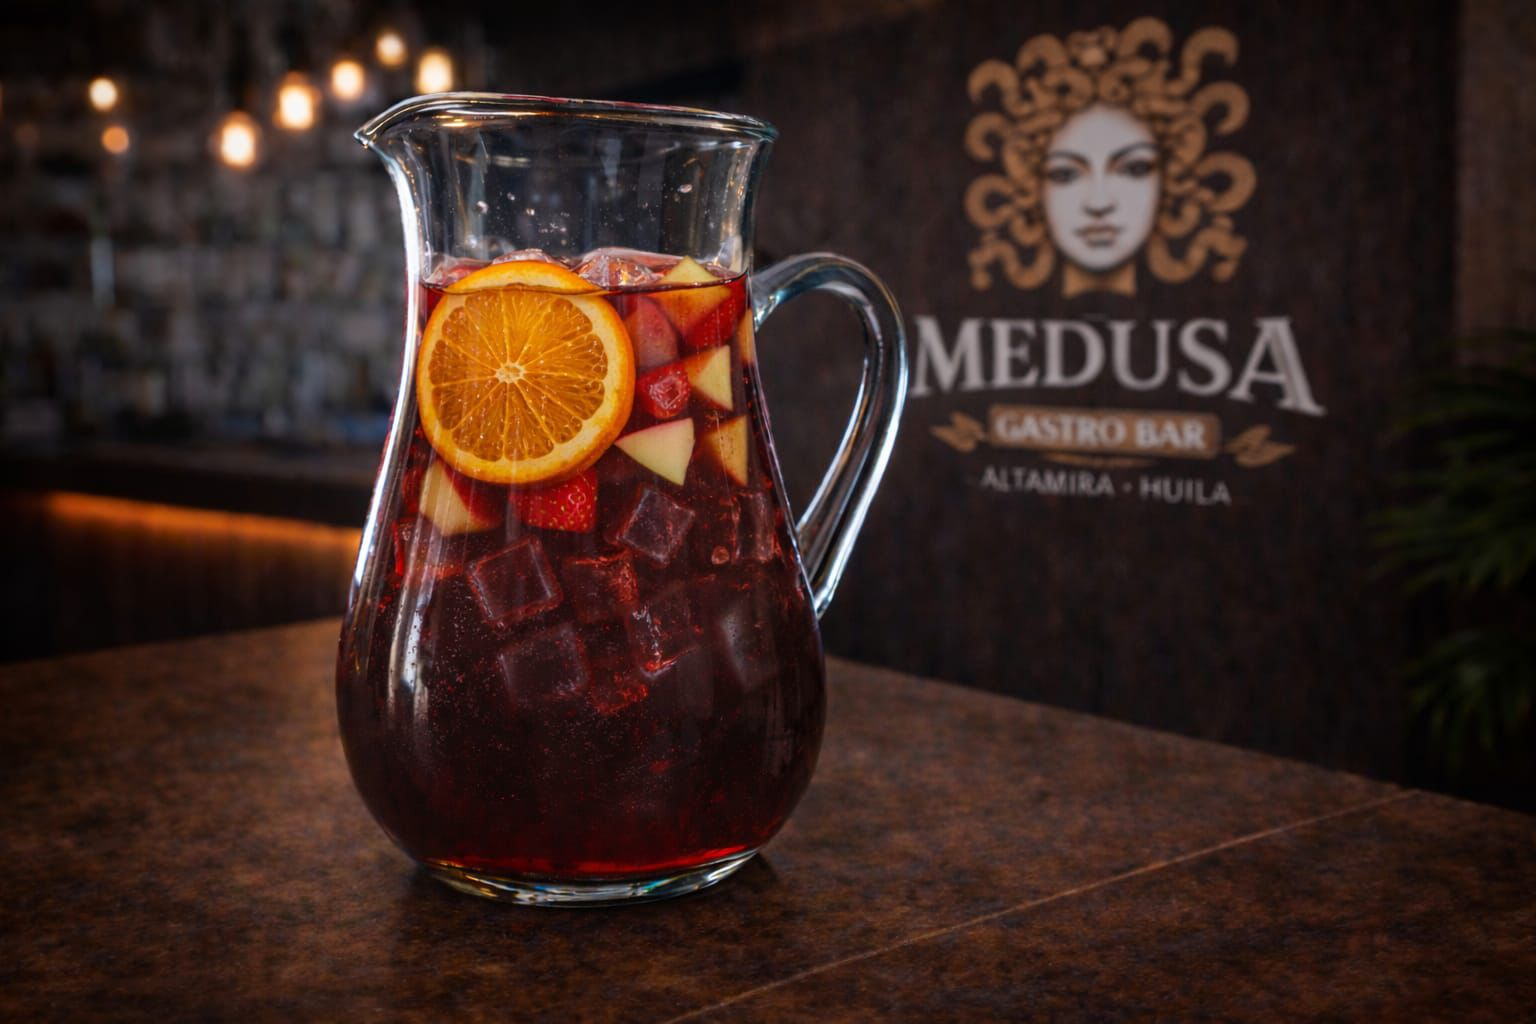
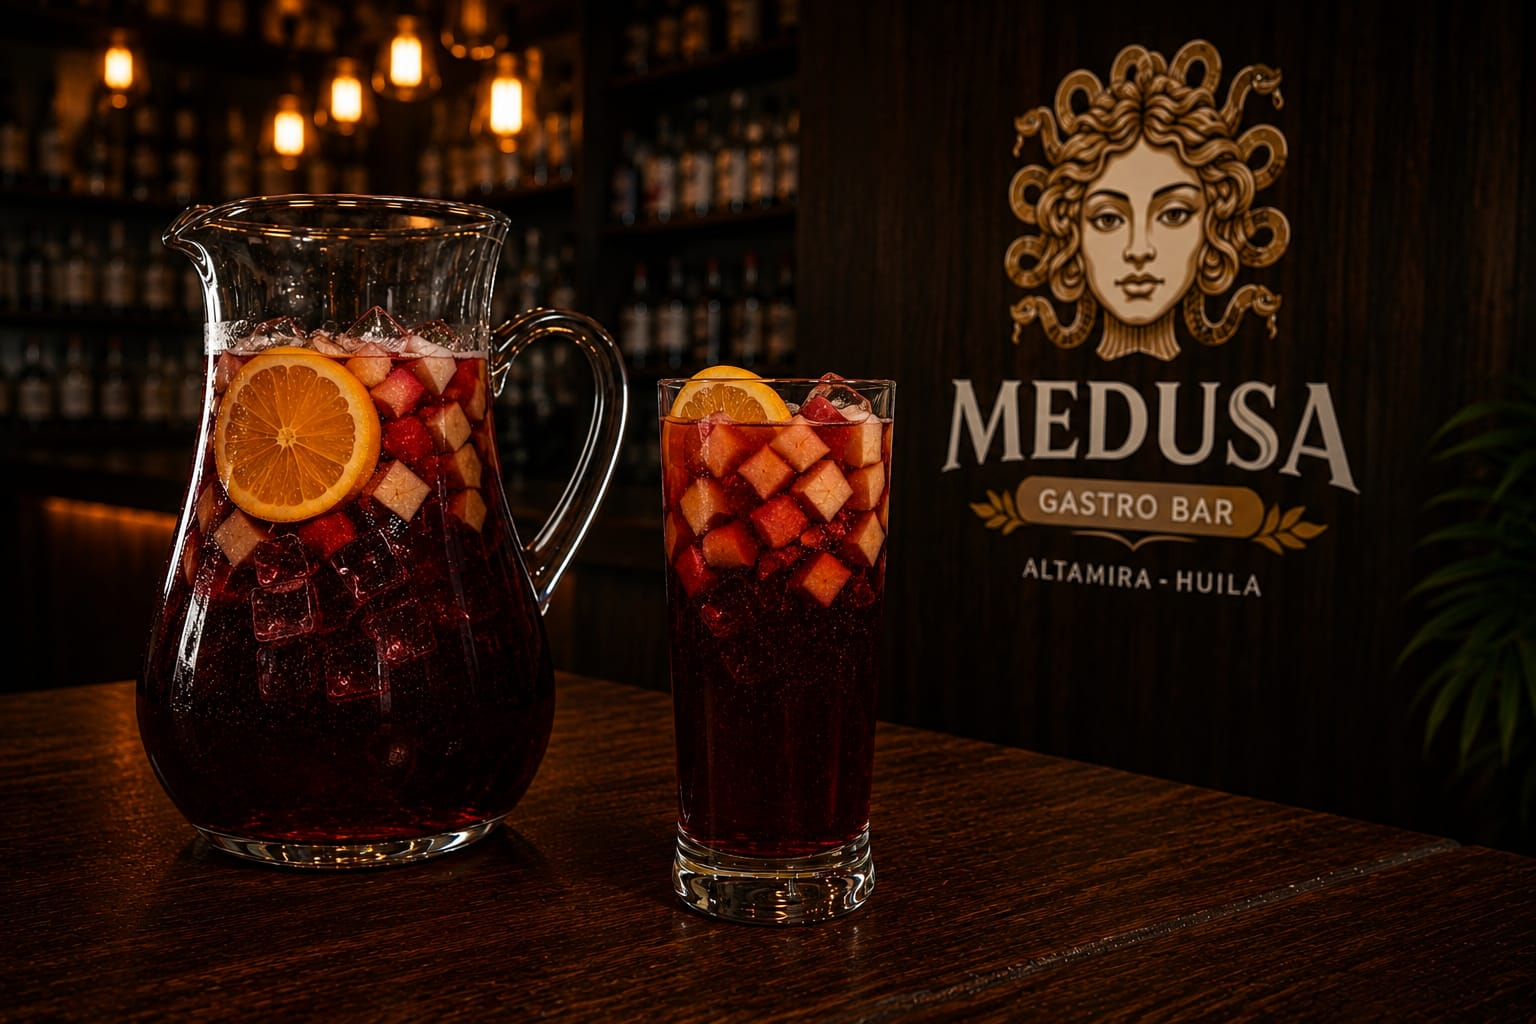
feat: cambios en estilos

diff --git a/app/page.tsx b/app/page.tsx
@@ -4,70 +4,127 @@
 import Image from "next/image";
 import Link from "next/link";
 import { motion } from "framer-motion";
-import { QrCode } from "lucide-react"; // Importamos el icono para el botón secundario
+import { QrCode, MapPin, PhoneCall, ChevronRight } from "lucide-react";
 
 export default function LandingPage() {
   return (
-    <main className="min-h-screen bg-[#050505] text-white flex flex-col items-center justify-center relative overflow-hidden">
-      {/* Luz de fondo ambiental */}
-      <div className="absolute inset-0 bg-[radial-gradient(ellipse_at_center,_var(--tw-gradient-stops))] from-[#d4af37]/15 via-[#050505] to-[#050505] opacity-60" />
+    <main className="h-[100dvh] bg-[#050505] text-white flex flex-col items-center justify-center relative overflow-hidden selection:bg-[#d4af37]/30">
 
-      <div className="relative z-10 flex flex-col items-center text-center px-4 w-full max-w-3xl">
+      {/* BOTÓN FLOTANTE DEL QR (Esquina superior derecha) */}
+      <motion.div
+        initial={{ opacity: 0, y: -20 }}
+        animate={{ opacity: 1, y: 0 }}
+        transition={{ duration: 0.8, delay: 1.2 }}
+        className="absolute top-6 right-6 sm:top-8 sm:right-8 z-50"
+      >
+        <Link href="/qr">
+          <button className="flex items-center gap-2 bg-[#111111]/80 backdrop-blur-md border border-white/10 text-[#d4af37] hover:bg-white/10 hover:text-white px-4 py-2 rounded-full font-medium transition-all duration-300 shadow-lg hover:shadow-[0_0_15px_rgba(212,175,55,0.2)] hover:scale-105">
+            <QrCode className="w-4 h-4" />
+            <span className="text-xs sm:text-sm tracking-wide">QR Mesa</span>
+          </button>
+        </Link>
+      </motion.div>
 
-        {/* Logo Animado */}
+      {/* FONDO DINÁMICO CON ORBES DE LUZ */}
+      <div className="absolute inset-0 z-0 pointer-events-none">
         <motion.div
-          initial={{ opacity: 0, scale: 0.8 }}
-          animate={{ opacity: 1, scale: 1 }}
-          transition={{ duration: 0.8, ease: "easeOut" }}
-          className="relative w-64 h-64 md:w-80 md:h-80 mb-6"
+          animate={{
+            scale: [1, 1.2, 1],
+            x: [0, 40, -20, 0],
+            y: [0, -30, 20, 0],
+          }}
+          transition={{ duration: 15, repeat: Infinity, ease: "easeInOut" }}
+          className="absolute top-[5%] left-[10%] w-[20rem] h-[20rem] md:w-[40rem] md:h-[40rem] bg-[#d4af37]/10 rounded-full blur-[100px] mix-blend-screen"
+        />
+        <motion.div
+          animate={{
+            scale: [1, 1.3, 1],
+            x: [0, -30, 20, 0],
+            y: [0, 40, -30, 0],
+          }}
+          transition={{ duration: 18, repeat: Infinity, ease: "easeInOut" }}
+          className="absolute bottom-[5%] right-[10%] w-[18rem] h-[18rem] md:w-[35rem] md:h-[35rem] bg-[#1a4a38]/20 rounded-full blur-[100px] mix-blend-screen"
+        />
+      </div>
+
+      <div className="relative z-10 flex flex-col items-center justify-center text-center px-4 w-full max-w-4xl h-full py-8 md:py-16">
+
+        {/* Logo Medusa */}
+        <motion.div
+          initial={{ opacity: 0, y: -20, filter: "blur(10px)" }}
+          animate={{ opacity: 1, y: 0, filter: "blur(0px)" }}
+          transition={{ duration: 1.2, ease: "easeOut" }}
+          className="relative w-40 h-40 sm:w-48 sm:h-48 md:w-60 md:h-60 mt-4 mb-4 md:mt-8 md:mb-8 shrink-0"
         >
           <Image
             src="/medusa-logo.png"
             alt="MEDUSA Logo"
             fill
-            className="object-contain drop-shadow-[0_0_20px_rgba(212,175,55,0.2)]"
+            className="object-contain drop-shadow-[0_0_30px_rgba(212,175,55,0.2)]"
             priority
           />
         </motion.div>
 
-        {/* Textos */}
+        {/* Slogan Poético */}
         <motion.div
-          initial={{ opacity: 0, y: 20 }}
-          animate={{ opacity: 1, y: 0 }}
-          transition={{ duration: 0.8, delay: 0.3 }}
+          initial={{ opacity: 0 }}
+          animate={{ opacity: 1 }}
+          transition={{ duration: 1, delay: 0.5 }}
+          className="mb-12 md:mb-16 relative px-2"
         >
-          <h1 className="text-4xl md:text-6xl font-serif text-[#d4af37] mb-2 tracking-widest uppercase">
-            Medusa
-          </h1>
-          <p className="text-lg md:text-2xl text-gray-400 mb-8 tracking-[0.3em] uppercase font-light">
-            Gastro Bar
-          </p>
-          <p className="text-sm md:text-base text-gray-500 mb-12 max-w-md mx-auto leading-relaxed">
-            Altamira, Huila • Una experiencia sensorial donde la coctelería de autor y la alta cocina se encuentran.
+          <p className="text-base sm:text-lg md:text-2xl font-serif text-gray-300 italic tracking-wide max-w-xl mx-auto leading-loose">
+            "Cambiamos vidas a través de experiencias <span className="text-[#d4af37] font-semibold">mágicas</span> e <span className="text-[#d4af37] font-semibold">inolvidables</span>."
           </p>
         </motion.div>
 
-        {/* Botones de Acción Agrupados */}
+        {/* BOTÓN PRINCIPAL - HOMOLOGADO AL ESTILO DEL BOTÓN QR */}
         <motion.div
           initial={{ opacity: 0, y: 20 }}
           animate={{ opacity: 1, y: 0 }}
-          transition={{ duration: 0.8, delay: 0.6 }}
-          className="flex flex-col items-center gap-5"
+          transition={{ duration: 0.8, delay: 0.8 }}
+          className="flex flex-col items-center w-full"
         >
-          {/* Botón Principal - Ver Menú */}
           <Link href="/menu">
-            <button className="bg-[#d4af37] text-black hover:bg-[#b5952f] text-lg md:text-xl px-12 py-4 rounded-full font-bold transition-all duration-300 shadow-[0_0_20px_rgba(212,175,55,0.4)] hover:shadow-[0_0_40px_rgba(212,175,55,0.6)] hover:scale-105">
-              Ver Menú Digital
+            <button className="group flex items-center gap-3 bg-[#111111]/80 backdrop-blur-md border border-white/10 text-[#d4af37] hover:bg-white/10 hover:text-white px-12 py-4 rounded-full font-bold text-lg md:text-xl transition-all duration-300 shadow-xl hover:shadow-[0_0_25px_rgba(212,175,55,0.2)] hover:scale-105 shrink-0">
+              Explorar la Carta
+              <ChevronRight className="w-5 h-5 group-hover:translate-x-1 transition-transform duration-300" />
             </button>
           </Link>
+        </motion.div>
 
-          {/* Botón Secundario - Ir al QR */}
-          <Link href="/qr">
-            <button className="flex items-center gap-2 bg-transparent text-[#d4af37] border border-[#d4af37]/30 hover:bg-[#d4af37]/10 hover:border-[#d4af37] text-sm md:text-base px-6 py-2.5 rounded-full font-medium transition-all duration-300">
-              <QrCode className="w-4 h-4" />
-              Obtener QR
-            </button>
-          </Link>
+        {/* TARJETAS DE INFORMACIÓN (GLASSMORPHISM) */}
+        <motion.div
+          initial={{ opacity: 0, y: 30 }}
+          animate={{ opacity: 1, y: 0 }}
+          transition={{ duration: 0.8, delay: 1 }}
+          className="w-full max-w-lg grid grid-cols-1 sm:grid-cols-2 gap-6 md:gap-10 mt-12 md:mt-20 shrink-0"
+        >
+          {/* Ubicación */}
+          <div className="flex items-center gap-5 bg-white/[0.02] border border-white/10 backdrop-blur-xl p-6 md:p-8 rounded-2xl hover:bg-white/[0.04] transition-colors shadow-2xl">
+            <div className="bg-[#d4af37]/10 p-2.5 rounded-full flex-shrink-0">
+              <MapPin className="w-5 h-5 text-[#d4af37]" />
+            </div>
+            <div className="text-left flex flex-col gap-1.5">
+              <p className="text-[#d4af37] text-[10px] md:text-xs font-bold uppercase tracking-widest mb-0.5">Ubicación</p>
+              <p className="text-gray-300 text-xs md:text-sm leading-relaxed">Variante principal<br />Calle 7 #5 - 30, Altamira</p>
+            </div>
+          </div>
+
+          {/* Reservas */}
+          <a
+            href="https://wa.me/573147819983"
+            target="_blank"
+            rel="noreferrer"
+            className="flex items-center gap-5 bg-white/[0.02] border border-white/10 backdrop-blur-xl p-6 md:p-8 rounded-2xl hover:bg-white/[0.04] transition-colors shadow-2xl cursor-pointer group"
+          >
+            <div className="bg-[#d4af37]/10 p-2.5 rounded-full flex-shrink-0 group-hover:bg-[#d4af37]/20 transition-colors">
+              <PhoneCall className="w-5 h-5 text-[#d4af37]" />
+            </div>
+            <div className="text-left flex flex-col gap-1.5">
+              <p className="text-[#d4af37] text-[10px] md:text-xs font-bold uppercase tracking-widest mb-0.5">Reservas</p>
+              <p className="text-gray-200 text-lg md:text-xl font-medium tracking-wide leading-none">314 781 9983</p>
+            </div>
+          </a>
         </motion.div>
 
       </div>

diff --git a/lib/data.ts b/lib/data.ts
@@ -15,7 +15,7 @@ export const menuData: MenuData = {
         id: "c-autor-1",
         name: "Caricia Oscura",
         description: "Ron, zumo de limón, clara de huevo, syrup de frutos rojos.",
-        price: "$18.000",
+        price: "$20.000",
         type: "Autor",
         image: "/assets/caricia-oscura.jpeg",
       },
@@ -56,7 +56,7 @@ export const menuData: MenuData = {
         id: "c-trad-1",
         name: "Margarita",
         description: "Tequila, triple sec, syrup simple, zumo de limón.",
-        price: "$18.000",
+        price: "$20.000",
         type: "Tradicional",
         image: "/assets/margarita.jpeg",
       },
@@ -82,7 +82,7 @@ export const menuData: MenuData = {
         description: "Ron blanco, soda, hierbabuena, zumo de limón, syrup simple.",
         price: "$20.000",
         type: "Tradicional",
-        image: "/assets/prox.jpeg",
+        image: "/assets/mojito.jpeg",
       },
       {
         id: "c-trad-5",
@@ -109,6 +109,15 @@ export const menuData: MenuData = {
         price: "$70.000",
         note: "Para 4-5 personas.",
         type: "Para Compartir",
+        image: "/assets/jarra-sangria.jpeg",
+      },
+      {
+        id: "c-comp-3",
+        name: "Sangría Sangre del Olimpo",
+        description: "Vodka, vino, soda, manzana verde, manzana roja, fresa, pera, naranja, zumo de limón, granadina.",
+        price: "$20.000",
+        note: "Para 1 persona.",
+        type: "Personal",
         image: "/assets/sangria.jpeg",
       },
       // --- SODAS SABORIZADAS ---
@@ -163,7 +172,7 @@ export const menuData: MenuData = {
         price: "$50.000",
         note: "Botella",
         type: "Vino",
-        image: "/assets/vino-artesanal.jpeg",
+        image: "/assets/prox.jpeg",
       },
       {
         id: "l-vino-2",
@@ -190,7 +199,7 @@ export const menuData: MenuData = {
         price: "$80.000",
         note: "Botella (Rango: $80.000 - $100.000)",
         type: "Vino",
-        image: "/assets/prox.jpeg",
+        image: "/assets/vino-artesanal.jpeg",
       },
       {
         id: "l-vino-5",
@@ -349,11 +358,11 @@ export const menuData: MenuData = {
       },
       {
         id: "b-hid-4",
-        name: "Soda",
+        name: "Bretaña",
         description: "Soda en botella.",
-        price: "$3.000",
+        price: "$8.000",
         type: "Hidratante",
-        image: "/assets/soda.jpeg",
+        image: "/assets/bretaña.jpeg",
       },
       {
         id: "b-gas-1",
@@ -370,13 +379,29 @@ export const menuData: MenuData = {
         price: "$10.000",
         type: "Gaseosa",
         image: "/assets/soda-saborisada.jpeg",
-      }
+      },
+      {
+        id: "b-gas-3",
+        name: "Ginger",
+        description: "Gaseosa personal.",
+        price: "$10.000",
+        type: "Gaseosa",
+        image: "/assets/ginger.jpeg",
+      },
+      {
+        id: "b-gas-4",
+        name: "Jugos Hit",
+        description: "Bebida personal.",
+        price: "$10.000",
+        type: "Gaseosa",
+        image: "/assets/hit.jpeg",
+      },
     ],
     comidas: [
       {
         id: "f-1",
         name: "Picada",
-        description: "Pollo, cerdo, chorizo, costilla, papa criolla, papas a la francesa, rapiyuca.",
+        description: "Pollo, cerdo, res, chorizo, costilla, papa criolla, papas a la francesa, rapiyuca.",
         price: "$26.000",
         image: "/assets/picada.jpeg",
       },
@@ -404,14 +429,14 @@ export const menuData: MenuData = {
       {
         id: "f-5",
         name: "Costillas BBQ",
-        description: "Acompañadas de patacones.",
+        description: "Acompañada de papas a la fransesa.",
         price: "$24.000",
         image: "/assets/costillas.jpeg",
       },
       {
         id: "f-6",
         name: "Hamburguesa Sencilla",
-        description: "Carne de la casa, tomate, lechuga, queso, cebolla caramelizada, queso,ripio, tocineta, pan artesanal.",
+        description: "Carne de la casa, tomate, lechuga, cebolla caramelizada, queso, ripio, tocineta, pan artesanal.",
         price: "$13.000",
         image: "/assets/hamburguesa.jpeg",
       },
@@ -425,7 +450,7 @@ export const menuData: MenuData = {
       {
         id: "f-8",
         name: "Chorizo Artesanal",
-        description: "Acompañado de patacón, papas a la francesa, ensalada. ",
+        description: "Acompañado de patacón, papas a la francesa. ",
         price: "$16.000",
         image: "/assets/chorizo.jpeg",
       },
@@ -448,7 +473,7 @@ export const menuData: MenuData = {
         name: "Salchipapa Americana",
         description: "Salchicha americana, papas a la francesa, queso, salsas, huevo de codorniz. ",
         price: "$15.000",
-        image: "/assets/prox.jpeg",
+        image: "/assets/salchi.jpeg",
       },
       {
         id: "f-12",
